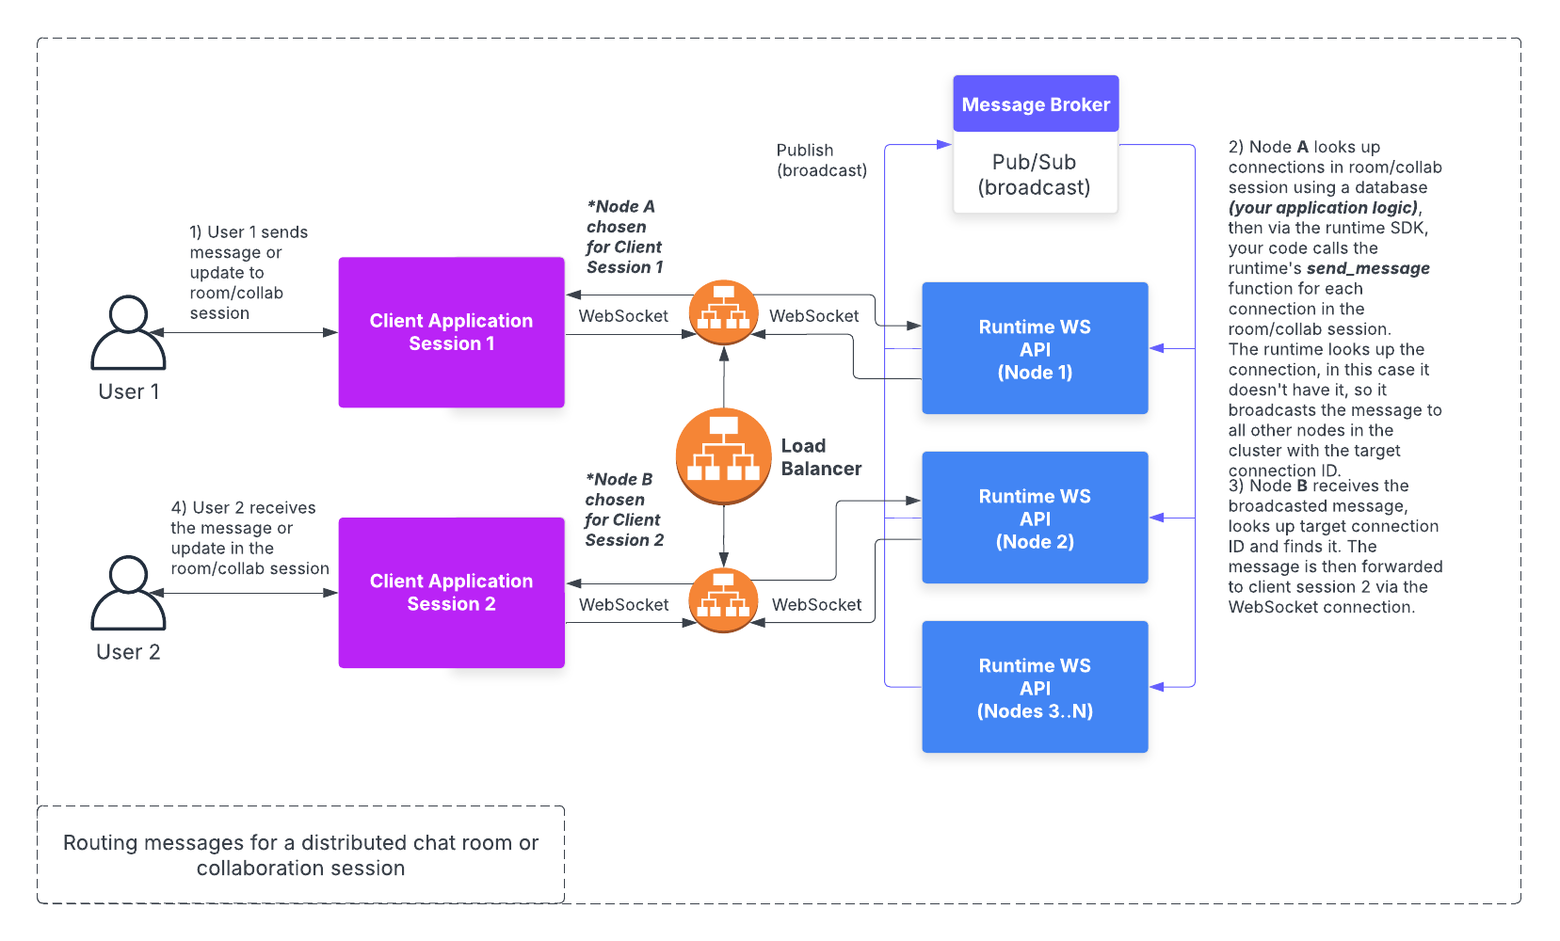
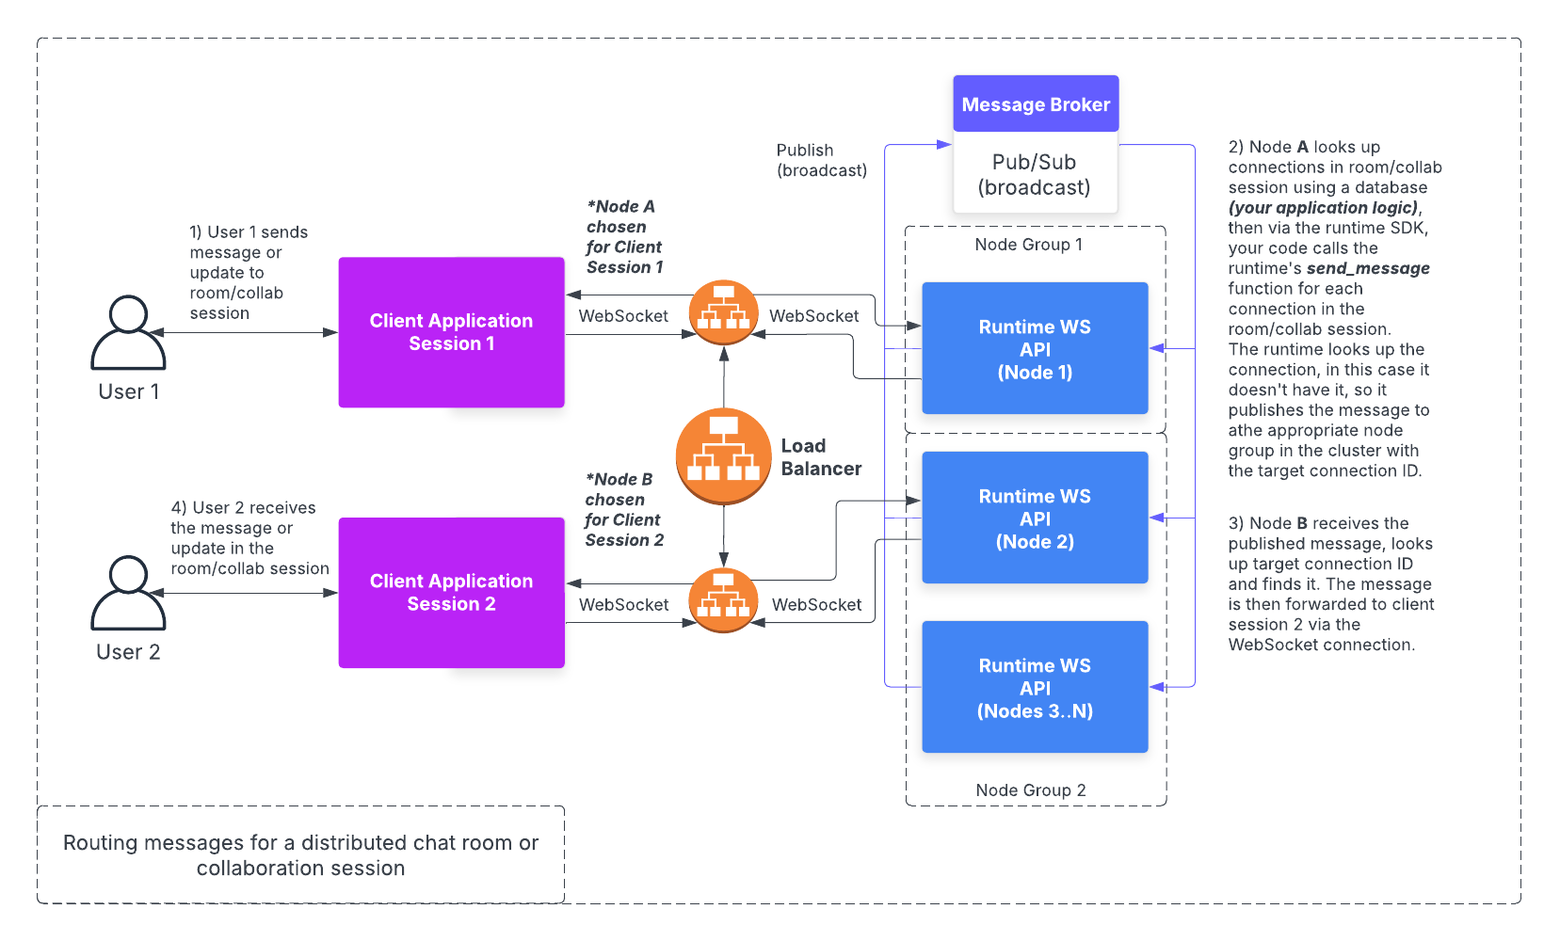
add first drafts for websocket runtime protocol and scalable websocket docs

Changed region(s): [[0.7695, 0.434, 0.9234, 0.713], [0.6156, 0.837, 0.7079, 0.868], [0.6156, 0.248, 0.6771, 0.279]]

diff --git a/docs/runtime/websocket-runtime-protocol.md b/docs/runtime/websocket-runtime-protocol.md
@@ -28,24 +28,26 @@ The following top-level object keys are reserved for the Celerity runtime and sh
 
 The following binary prefixes are reserved for the Celerity runtime and should not be used in application level messages:
 
-- `[0x1 0x1 0x0]`: This binary prefix is used for ping messages.
-- `[0x1 0x2 0x0]`: This binary prefix is used for pong messages.
-- `[0x1 0x3 0x0]`: This binary prefix is used for informing clients of potentially lost messages.
+- `[0x1 0x1 0x0 0x0]`: This binary prefix is used for ping messages.
+- `[0x1 0x2 0x0 0x0]`: This binary prefix is used for pong messages.
+- `[0x1 0x3 0x0 0x0]`: This binary prefix is used for informing clients of potentially lost messages.
+- `[0x1 0x4 0x0 0x0]`: This binary prefix is used for acknowledging messages.
 
 The first byte of the binary prefix indicates the length of the route key (1 byte).
 The second byte indicates the route key itself (in this case, a single byte indicating the type of message).
-The third byte is for the length of the message ID, which is `0` for these reserved messages as they do not have a message ID.
+The third byte is for whether or not the message requires an acknowledgement, this is `0x0` for all reserved messages as they do not require an acknowledgement.
+The fourth byte is for the length of the message ID, which is `0` for these reserved messages as they do not have a message ID.
 
 To avoid conflicts with these reserved prefixes, binary messages from the server to the client should use a different prefix following the Celerity Binary Message Format, which includes the length of the route key, followed by the custom route key and the message payload. For example, a binary message with a route key of `my_route` and a payload of `[0x1 0x3 0x6 0x9 0x1]` would look like this:
 
 ```plaintext
-[0x8 utf8_encode(my_route)... 0x0 0x1 0x3 0x6 0x9 0x1]
+[0x8 utf8_encode(my_route)... 0x0 0x0 0x1 0x3 0x6 0x9 0x1]
 ```
 
-Where `0x8` is the length of the route key (8 bytes for `my_route`) and the `0x0` after the route key indicates that there is no message ID for this message. You may also use a message ID if you want to track messages at the application level, in which case the message would look like this:
+Where `0x8` is the length of the route key (8 bytes for `my_route`), the first `0x0` indicates that the message does not require an acknowledgement and the second `0x0` after the route key indicates that there is no message ID for this message. You may also use a message ID if you want to track messages at the application level, in which case the message would look like this:
 
 ```plaintext
-[0x8 utf8_encode(my_route)... 0x5 utf8_encode("12345") 0x1 0x3 0x6 0x9 0x1]
+[0x8 utf8_encode(my_route)... 0x0 0x5 utf8_encode("12345") 0x1 0x3 0x6 0x9 0x1]
 ```
 
 Where `0x5` is the length of the message ID (5 bytes for `12345`).
@@ -73,7 +75,7 @@ For binary messages, the message ID can be included after the route key in the [
 An example for a binary message would be:
 
 ```plaintext
-[0x8 utf8_encode(my_route)... 0x5 utf8_encode("12345")... <payload>]
+[0x8 utf8_encode(my_route)... 0x0 0x5 utf8_encode("12345")... <payload>]
 ```
 
 Where `0x5` is the length of the message ID (5 bytes for `12345`).
@@ -164,7 +166,9 @@ The client SDKs will implement this behaviour automatically if configured for th
 
 ## Resilience & Reconnection Behaviour
 
-Clients of Celerity WebSocket APIs compatible with the Celerity runtime should provide reconnection behaviour and a way to inform clients of messages that may have been lost.
+Clients of Celerity WebSocket APIs compatible with the Celerity runtime should provide reconnection behaviour and the server-side runtime should provide a way to inform clients of messages that may have been lost.
+
+In addition to this, both client and server-side components should support opt-in acknowledgement of messages where messages are resent due to an acknowledgement timeout up to a configurable maximum number of attempts.
 
 This protocol provides heartbeat mechanisms to help clients detect lost connections and implement reconnection logic. It also provides a way for the server to inform clients about messages that may have been lost, which is especially used in multi-node deployments of a WebSocket API.
 
@@ -184,11 +188,11 @@ Ping messages can either be binary messages or JSON messages.
 The binary message must have the following content:
 
 ```plaintext
-[0x1 0x1 0x0]
+[0x1 0x1 0x0 0x0]
 ```
 
-This is following the Celerity Binary Message Format, where the first byte indicates the length of the route key (1 byte) and the second byte indicates the route key itself (in this case a single byte `0x1` indicating a ping message). The third byte is `0x0` indicating that there is no message ID for this ping message.
-
+This is following the Celerity Binary Message Format, where the first byte indicates the length of the route key (1 byte) and the second byte indicates the route key itself (in this case a single byte `0x1` indicating a ping message). The third byte is `0x0` indicating that the message does not require an acknowledgement.
+The fourth byte is `0x0` indicating that there is no message ID for this ping message.
 
 The JSON message must have the following content:
 
@@ -203,10 +207,11 @@ Pong messages can also be either binary messages or JSON messages.
 The binary message must have the following content:
 
 ```plaintext
-[0x1 0x2 0x0]
+[0x1 0x2 0x0 0x0]
 ```
 
-This is following the Celerity Binary Message Format, where the first byte indicates the length of the route key (1 byte) and the second byte indicates the route key itself (in this case a single byte `0x2` indicating a pong message). The third byte is `0x0` indicating that there is no message ID for this pong message.
+This is following the Celerity Binary Message Format, where the first byte indicates the length of the route key (1 byte) and the second byte indicates the route key itself (in this case a single byte `0x2` indicating a pong message). The third byte is `0x0` indicating that the message does not require an acknowledgement.
+The fourth byte is `0x0` indicating that there is no message ID for this pong message.
 
 The JSON message must have the following content:
 
@@ -216,6 +221,76 @@ The JSON message must have the following content:
 }
 ```
 
+### Acknowledgements
+
+Acknowledgements are used to ensure messages are received by the client or server.
+The acknowledgement mechanism is opt-in and will only apply to messages that are sent with a message ID.
+
+#### Messages
+
+To opt-in to acknowledgements, the client or server-side application must specify in the message that the sender is expecting an acknowledgement for the message.
+
+For JSON messages, the message must have the following format:
+
+```json
+{
+  "ack": true
+}
+```
+
+For binary messages, the message must have the following form:
+
+```plaintext
+[0x3 utf8_encode("123")... 0x1 0x2 utf8_encode("10") 0x1 0x5 0x3 0x3 0x1]
+```
+
+Where:
+
+- `0x3` is the length of the route key (3 bytes for `123`).
+- `utf8_encode("123")` is the route key itself.
+- `0x1` indicates that the message requires an acknowledgement.
+- `0x2` is the length of the message ID (2 bytes for `10`).
+- `utf8_encode("10")` is the message ID.
+- `[0x1 0x5 0x3 0x3 0x1]` is the payload.
+
+:::warning
+If a message ID is not present, the flag to opt in to acknowledgements will be ignored.
+:::
+
+
+Acknowledgement messages are in the form of a binary message with the following format:
+
+```plaintext
+[0x1 0x4 0x0 0x0 utf8_encode("{"messageId":"<messageId>","timestamp":"<timestamp>"}")...]
+```
+
+Where:
+
+- `0x1` is the length of the route key (1 byte).
+- `0x4` is the route key itself (in this case a single byte `0x4` indicating an acknowledgement message).
+- The first `0x0` indicates that the message does not require an acknowledgement.
+- The second `0x0` is the length of the message ID (0 bytes, as this is a reserved message).
+- `utf8_encode("{"messageId":"<messageId>","timestamp":"<timestamp>"}")` is the JSON-encoded message that contains the ID of the message that has been acknowledged and the timestamp of the acknowledgement.
+
+#### Client Requested Acknowledgements
+
+When a message is sent from the server to the client, the client will need to listen for an acknowledgement that the message has been received by the server. The server will then send an acknowledgement message to the client with the message ID and the timestamp of the acknowledgement.
+
+The client will need to track the status of the message and if an acknowledgement has not been received after a configurable timeout, the client will need to resend the message up to a configurable maximum number of attempts. The client should delay resending the message until the next heartbeat pong is received from the server, and then proceed to resend the message once there is confirmation that the connection is still alive.
+
+If after a configurable number of attempts, an acknowledgement has not been received, the client should consider the message lost and inform the application layer to take appropriate action.
+
+This behaviour will be handled by the client SDKs, exposing appropriate callbacks to the application layer to notify the application of the current status of the message and allow it to handle the case of a lost message.
+
+When responding to a message that requires an acknowledgement, the server should send an acknowledgement message to the client with the message ID and the timestamp of the acknowledgement upon receiving the message.
+There is no special behaviour needed for multi-node deployments for client-requested acknowledgements. This is because server nodes do not act as gateways to forward messages from clients to other nodes, the application layer is responsible for calling `send_message` or equivalent on the server-side to forward messages to clients connected that may be connected to other nodes.
+
+#### Server Requested Acknowledgements
+
+When a message is sent from the client to the server, the server will need to listen for an acknowledgement that the message has been received by the client. The client is then expected to send an acknowledgement message to the server with the message ID and the timestamp of the acknowledgement.
+
+The server will need to track the status of the message in-memory and if an acknowledgement has not been received after a configurable timeout, the server will need to resend the message up to a configurable maximum number of attempts. When the client has disconnected, the server should consider the message lost as client sessions are not persisted at the runtime protocol layer, a client is tracked by the connection ID which only lasts the lifetime of a single connection.
+
 ### Lost Messages
 
 Lost messages must be taken into account for messages sent from the server to the client.
@@ -224,7 +299,7 @@ Applications deployed on the Celerity runtime will want to send messages to mult
 In multi-node deployments, messages sent from the server to a specific client via a connection ID will often be sent across different nodes in the cluster via a network protocol, which can lead to messages being lost if there is an issue with the network or a node failure.
 There is also the case where a message sent from the server-side application to a client is lost due to the client disconnecting due to network issues or other reasons.
 
-For these cases, a mechanism must be provided to inform specific clients connected to the current node of messages that may have been lost, so that the client can take appropriate action, such as asking the user to retry the action that caused the message to be sent. The responsibility of retrying actions and preventing duplicate messages is left to the application logic both client and server-side.
+For these cases, a mechanism must be provided to inform specific clients connected to the current node of messages that may have been lost, so that the client can take appropriate action, such as asking the user to retry the action that caused the message to be sent. The responsibility of retrying actions and content-based deduplication is left to the application logic both client and server-side.
 
 The Celerity runtime provides 2 ways of handling lost messages:
 
@@ -235,13 +310,39 @@ The Celerity runtime provides 2 ways of handling lost messages:
 Lost messages are sent to clients using a binary message of the following format:
 
 ```plaintext
-[0x1 0x3 0x0 utf8_encode("{"messageId":"<messageId>","caller":"<caller>"}")...]
+[0x1 0x3 0x0 0x0 utf8_encode("{"messageId":"<messageId>","caller":"<caller>"}")...]
 ```
 
 Where:
 - `0x1` is the length of the route key (1 byte).
 - `0x3` is the route key itself (in this case a single byte `0x3` indicating a lost message).
-- `0x0` is the length of the message ID (0 bytes, as this is a reserved message).
+- The first `0x0` indicates that the message does not require an acknowledgement.
+- The second `0x0` is the length of the message ID (0 bytes, as this is a reserved message).
 - `utf8_encode("{"messageId":"<messageId>","caller":"<caller>"}")` is the JSON-encoded message that contains the ID of the message that may have been lost and an ID for the caller context. When an application-defined message ID is provided on the server-side attempt to send the message, this may correspond to a persisted ID at the application level that can be used by the client when taking appropriate action. If the message ID is generated by the runtime, then it won't be very useful to the client, and the caller ID should instead be used to identify the context or purpose of the message.
 
 When it comes to messages sent from the client to the server, as clients send messages directly to the server that they are intended for, the only way a message can be lost is if there is a network issue or the server is temporarily unavailable. In this case, the client should handle the reconnection logic and retry sending the message after a certain period of time. The client SDKs will provide a way to handle the reconnection automatically but the application logic needs to determine what messages to retry (if any) after a reconnection.
+
+## Deduplication
+
+Both client and server-side components should provide a way to handle message deduplication based on the message ID. When the client or server does not provide a message ID, the runtime or client SDK will not be able to deduplicate messages, it will be the responsibility of the application layer to handle deduplication.
+
+On the server-side, the runtime should keep track of messages that have been received from the client.
+Depending on the type of deployment, the runtime will either store the message ID in a shared store or in memory. Single node deployments will use in-memory storage, cluster deployments will use a shared store. The runtime will need to check if the message ID has been received before and if so, it should not be processed again. The entries in the message ID store should expire after a configurable timeout (defaulting to 5 minutes) to prevent the shared store from growing indefinitely.
+
+On the client-side, an in-memory store should be used to keep track of messages that have been received from the server. The client will need to check if the message ID has been received before and if so, it should not be processed again. The entries in the message ID store on the client side should also expire after a configurable timeout (defaulting to 5 minutes) to manage memory usage.
+
+The client-side aspect of message ID deduplication will be taken care of the by the client SDKs.
+
+## Good Defaults
+
+The following are a set of good defaults to be used for the configurable values for the client and server-side components.
+
+- 10 seconds for the acknowledgement timeout.
+- 3 for the maximum number of attempts to resend a message.
+- 5 minutes for the message ID store TTL. (For deduplication)
+- 10 seconds for the heartbeat interval.
+- 5 seconds for the heartbeat timeout.
+
+## Message ID Generation
+
+Message IDs should be generated using either UUIDs or a more compact format such as [NanoID](https://github.com/ai/nanoid). The ID should be globally random and not predictable.

diff --git a/docs/runtime/scalable-websockets.md b/docs/runtime/scalable-websockets.md
@@ -3,19 +3,70 @@ sidebar_position: 3
 ---
 # Scalable WebSockets
 
+**v2026-02-28 (draft)**
+
 ## Overview
 
 The Celerity runtime supports deployment as a horizontally scalable cluster of WebSocket servers.
-The approach is to allow for multiple WebSocket servers to be deployed in a way in which it does not matter which server a client connects to. This is made possible by using a shared message broker that is used to broadcast messages to all nodes in the cluster. Each node will then filter messages received from other nodes based on the target connection ID for the message and the clients that are connected to the node.
+The approach is to allow for multiple WebSocket servers to be deployed in a way in which it does not matter which server a client connects to. This is made possible by using a shared message broker that is used to publish messages to other nodes in the cluster. Each node will then filter messages received from other nodes based on the target connection ID for the message and the clients that are connected to the node.
 
-The Celerity runtime uses Redis pub/sub as the built-in message broker for broadcasting messages to all nodes in the cluster. This allows for a scalable and efficient way to handle WebSocket connections and messages.
+The Celerity runtime uses Valkey pub/sub as the message broker for publishing messages to nodes in the cluster. This allows for a scalable and efficient way to handle WebSocket connections and messages. For improvements in reliability, this may be extended in the future to support message brokers with more robust delivery guarantees.
+
+The runtime also uses Valkey to store mappings of connection IDs to node groups, allowing for the runtime to select the channel to publish messages to in an efficient manner.
 
 ![Scalable WebSockets Architecture](../assets/celerity-runtime-websockets.png)
 
-## Broadcasting & Acknowledgements
+_This diagram is a high-level overview of the flow for a WebSocket API cluster that doesn't include details about acknowledgements and message deduplication._
 
-Every time a message is broadcast to the cluster, the unique identifier of the source node will need to be included to allow for listening for acknowledgements that will be broadcast by the upstream node that is connected to the target connection ID for the message.
+## Startup Process
 
-The sender node will be listening for acknowledgements that match the message ID and the source node ID. If an acknowledgement is not received by a configurable timeout, the sender node will broadcast the message again. This will continue until the acknowledgement is received or a maximum number of retries is reached. If the maximum number of retries is reached, the sender node will mark the message as lost and ensure that clients that should be notified of the lost message are informed.
+When a node starts up, it will connect to the message broker and will join any node group with capacity or start a new node group. To select the node group to join, it will first list the channels that match the node group pattern and then check the number of subscribers to each channel. The node will then join the node group with the lowest number of subscribers that has capacity, if no node group has capacity, the node will start a new node group. The ID created for a new node group should be a random, unique and compact ID such as a [NanoID](https://github.com/ai/nanoid). This will have a final form of `celerity:node-group:${id}`.
+
+The node group pattern is `celerity:node-group:*` and the node group ack pattern is `celerity:node-group-ack:*`.
+Only the node group channel should be used to determine the node group to join, the node group ack channel will then be a mirror of the node group channel that is only used for acknowledgements.
+
+:::important
+The same configurable capacity for node groups needs to be shared across all nodes in the cluster, this defaults to 5 nodes.
+:::
+
+The process of joining a node group is done by subscribing to the node group and node group ack channels and keeping the node group ID in memory to be used in connection management and message handling.
+
+## Connection Management
+
+When a client connects to a node, the node must add the connection ID to the node group that the node is a member of. This is done by writing the connection ID to group mapping to the shared store. The key should be in the form of `celerity:conn:${connectionId}` with the value being the node group ID.
+
+When a client disconnects from a node, the node must remove the connection ID from the node group that the node is a member of. This is done by removing the connection ID to group mapping from the shared store.
+
+## Publishing Messages
+
+When a node receives a message from a WebSocket client, it will first check if the connection ID is for a connection that is connected to the node. If it is, the message will be processed by the node. If it is not, the message will be published via the message broker to a subset of nodes that are more likely to be connected to the target client.
+
+To determine the channel to send the message to, the node will look up the node group by the connection ID. Node groups are used to prevent the need to broadcast every message to every node in the cluster. Groups are used to reduce the amount of channels that need to be managed by the message broker while still providing the benefits of reducing the number of messages that need to be processed by each node.
+
+The node will then publish the message to the channel for the node group and listen for an acknowledgement for the message, see the next section for more details on acknowledgements.
+
+## Acknowledgements
+
+Every time a message is sent to a node group in the cluster, the unique identifier of the source node will need to be included to allow for listening to acknowledgements that will be published by the upstream node that is connected to the target connection ID for the message.
+
+The sender node will be listening for acknowledgements on the ack channel for its node group. It will then filter the acknowledgements based on the source node ID of the message and update the status of the message for the provided message ID. If an acknowledgement is not received by a configurable timeout, the sender node will publish the message again to the node group. This will continue until the acknowledgement is received or a maximum number of retries is reached. If the maximum number of retries is reached, the sender node will mark the message as lost and ensure that clients that should be notified of the lost message are informed.
 
 See the [Lost Messages](/docs/runtime/websocket-runtime-protocol#lost-messages) section for more details on how lost messages are handled.
+
+## Handling Duplicates
+
+Each node will keep track of messages that it has received and has been able to successfully forward to the client. This is done by storing the message ID in the shared store. The key should be in the form of `celerity:msg:${messageId}` with the value being `1`. These entries must expire after a configurable timeout (defaulting to 5 minutes) to prevent the shared store from growing indefinitely.
+
+Writing message IDs to the shared store is done in batches to reduce the number of writes to the shared store when there is a high volume of messages. The batch size defaults to 100 messages but is configurable, the window for flushing the batch even if the batch size is not reached defaults to 50 milliseconds and should be kept small to prevent duplicates from being missed.
+
+Reads to check if a message ID has been processed are immediate, batching only applies to writes.
+
+The timeout should be chosen carefully based on the acknowledgement timeout and the maximum number of retries, the message processed entry TTL should be set for a value that is greater than the acknowledgement timeout multiplied by the maximum number of retries.
+
+Using a shared store allows for other nodes to be able to detect duplicates for messages that are being resent due to an acknowledgement timeout. This will not protect against the same message being sent multiple times with a different message ID, it is the responsibility of the application layer to handle content-based deduplication.
+
+:::warning Failed requests to shared store
+If a a batch request to write message IDs to the shared store fails, the node will not be able to detect duplicates for messages that are being resent due to an acknowledgement timeout. This will result in the message being resent multiple times to the client.
+
+If a read request to check if a message ID has been processed fails, the message will be processed, where message delivery is prioritised over deduplication.
+:::
